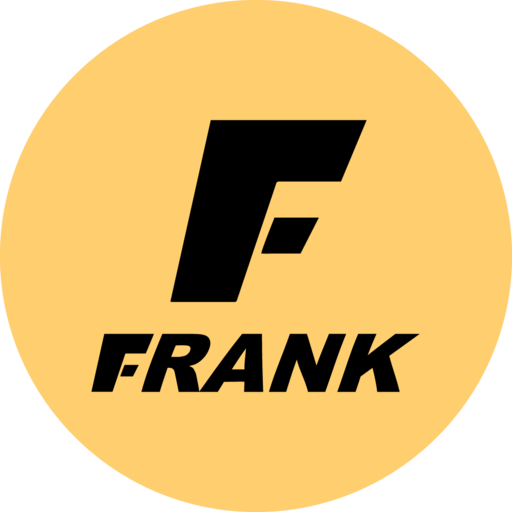
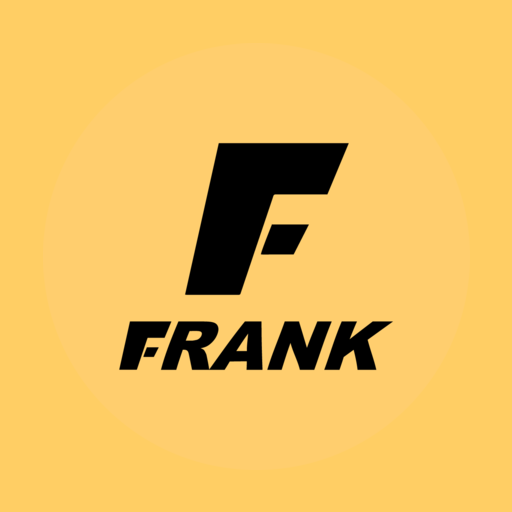
fatica edit for safari

diff --git a/search/index.html b/search/index.html
@@ -24,8 +24,8 @@
 <link rel="icon" type="image/png" sizes="16x16" href="/favicon-16x16.png">
 <link rel="manifest" href="/site.webmanifest">
 <link rel="mask-icon" href="/safari-pinned-tab.svg" color="#5bbad5">
-<meta name="msapplication-TileColor" content="#da532c">
-<meta name="theme-color" content="#ffffff"><link rel="preload" href="https://frankchi.com/search/index.json" as="fetch" crossorigin="anonymous">
+<meta name="msapplication-TileColor" content="#ffc40d">
+<meta name="theme-color" content="#ffce64"><link rel="preload" href="https://frankchi.com/search/index.json" as="fetch" crossorigin="anonymous">
     </head>
     <body class="template-search">
     <script>

diff --git a/archives/index.html b/archives/index.html
@@ -24,8 +24,8 @@
 <link rel="icon" type="image/png" sizes="16x16" href="/favicon-16x16.png">
 <link rel="manifest" href="/site.webmanifest">
 <link rel="mask-icon" href="/safari-pinned-tab.svg" color="#5bbad5">
-<meta name="msapplication-TileColor" content="#da532c">
-<meta name="theme-color" content="#ffffff">
+<meta name="msapplication-TileColor" content="#ffc40d">
+<meta name="theme-color" content="#ffce64">
     </head>
     <body class="template-archives">
     <script>

diff --git a/my_class/index.html b/my_class/index.html
@@ -103,8 +103,8 @@
 <link rel="icon" type="image/png" sizes="16x16" href="/favicon-16x16.png">
 <link rel="manifest" href="/site.webmanifest">
 <link rel="mask-icon" href="/safari-pinned-tab.svg" color="#5bbad5">
-<meta name="msapplication-TileColor" content="#da532c">
-<meta name="theme-color" content="#ffffff">
+<meta name="msapplication-TileColor" content="#ffc40d">
+<meta name="theme-color" content="#ffce64">
     </head>
     <body class="
     article-page has-toc

diff --git a/p/accent_training_intro/index.html b/p/accent_training_intro/index.html
@@ -25,8 +25,8 @@
 <link rel="icon" type="image/png" sizes="16x16" href="/favicon-16x16.png">
 <link rel="manifest" href="/site.webmanifest">
 <link rel="mask-icon" href="/safari-pinned-tab.svg" color="#5bbad5">
-<meta name="msapplication-TileColor" content="#da532c">
-<meta name="theme-color" content="#ffffff">
+<meta name="msapplication-TileColor" content="#ffc40d">
+<meta name="theme-color" content="#ffce64">
     </head>
     <body class="
     article-page has-toc

diff --git a/about_me/index.html b/about_me/index.html
@@ -27,8 +27,8 @@
 <link rel="icon" type="image/png" sizes="16x16" href="/favicon-16x16.png">
 <link rel="manifest" href="/site.webmanifest">
 <link rel="mask-icon" href="/safari-pinned-tab.svg" color="#5bbad5">
-<meta name="msapplication-TileColor" content="#da532c">
-<meta name="theme-color" content="#ffffff">
+<meta name="msapplication-TileColor" content="#ffc40d">
+<meta name="theme-color" content="#ffce64">
     </head>
     <body class="
     article-page 

diff --git a/404.html b/404.html
@@ -24,8 +24,8 @@
 <link rel="icon" type="image/png" sizes="16x16" href="/favicon-16x16.png">
 <link rel="manifest" href="/site.webmanifest">
 <link rel="mask-icon" href="/safari-pinned-tab.svg" color="#5bbad5">
-<meta name="msapplication-TileColor" content="#da532c">
-<meta name="theme-color" content="#ffffff">
+<meta name="msapplication-TileColor" content="#ffc40d">
+<meta name="theme-color" content="#ffce64">
     </head>
     <body class="">
     <script>

diff --git a/categories/books/index.html b/categories/books/index.html
@@ -25,8 +25,8 @@
 <link rel="icon" type="image/png" sizes="16x16" href="/favicon-16x16.png">
 <link rel="manifest" href="/site.webmanifest">
 <link rel="mask-icon" href="/safari-pinned-tab.svg" color="#5bbad5">
-<meta name="msapplication-TileColor" content="#da532c">
-<meta name="theme-color" content="#ffffff">
+<meta name="msapplication-TileColor" content="#ffc40d">
+<meta name="theme-color" content="#ffce64">
     </head>
     <body class="">
     <script>

diff --git a/categories/english-learning/index.html b/categories/english-learning/index.html
@@ -25,8 +25,8 @@
 <link rel="icon" type="image/png" sizes="16x16" href="/favicon-16x16.png">
 <link rel="manifest" href="/site.webmanifest">
 <link rel="mask-icon" href="/safari-pinned-tab.svg" color="#5bbad5">
-<meta name="msapplication-TileColor" content="#da532c">
-<meta name="theme-color" content="#ffffff">
+<meta name="msapplication-TileColor" content="#ffc40d">
+<meta name="theme-color" content="#ffce64">
     </head>
     <body class="">
     <script>

diff --git a/categories/english_learning/index.html b/categories/english_learning/index.html
@@ -24,8 +24,8 @@
 <link rel="icon" type="image/png" sizes="16x16" href="/favicon-16x16.png">
 <link rel="manifest" href="/site.webmanifest">
 <link rel="mask-icon" href="/safari-pinned-tab.svg" color="#5bbad5">
-<meta name="msapplication-TileColor" content="#da532c">
-<meta name="theme-color" content="#ffffff">
+<meta name="msapplication-TileColor" content="#ffc40d">
+<meta name="theme-color" content="#ffce64">
     </head>
     <body class="">
     <script>

diff --git a/categories/index.html b/categories/index.html
@@ -24,8 +24,8 @@
 <link rel="icon" type="image/png" sizes="16x16" href="/favicon-16x16.png">
 <link rel="manifest" href="/site.webmanifest">
 <link rel="mask-icon" href="/safari-pinned-tab.svg" color="#5bbad5">
-<meta name="msapplication-TileColor" content="#da532c">
-<meta name="theme-color" content="#ffffff">
+<meta name="msapplication-TileColor" content="#ffc40d">
+<meta name="theme-color" content="#ffce64">
     </head>
     <body class="">
     <script>

diff --git a/categories/pronunciation/index.html b/categories/pronunciation/index.html
@@ -25,8 +25,8 @@
 <link rel="icon" type="image/png" sizes="16x16" href="/favicon-16x16.png">
 <link rel="manifest" href="/site.webmanifest">
 <link rel="mask-icon" href="/safari-pinned-tab.svg" color="#5bbad5">
-<meta name="msapplication-TileColor" content="#da532c">
-<meta name="theme-color" content="#ffffff">
+<meta name="msapplication-TileColor" content="#ffc40d">
+<meta name="theme-color" content="#ffce64">
     </head>
     <body class="">
     <script>

diff --git a/index.html b/index.html
@@ -25,8 +25,8 @@
 <link rel="icon" type="image/png" sizes="16x16" href="/favicon-16x16.png">
 <link rel="manifest" href="/site.webmanifest">
 <link rel="mask-icon" href="/safari-pinned-tab.svg" color="#5bbad5">
-<meta name="msapplication-TileColor" content="#da532c">
-<meta name="theme-color" content="#ffffff">
+<meta name="msapplication-TileColor" content="#ffc40d">
+<meta name="theme-color" content="#ffce64">
     </head>
     <body class="">
     <script>
